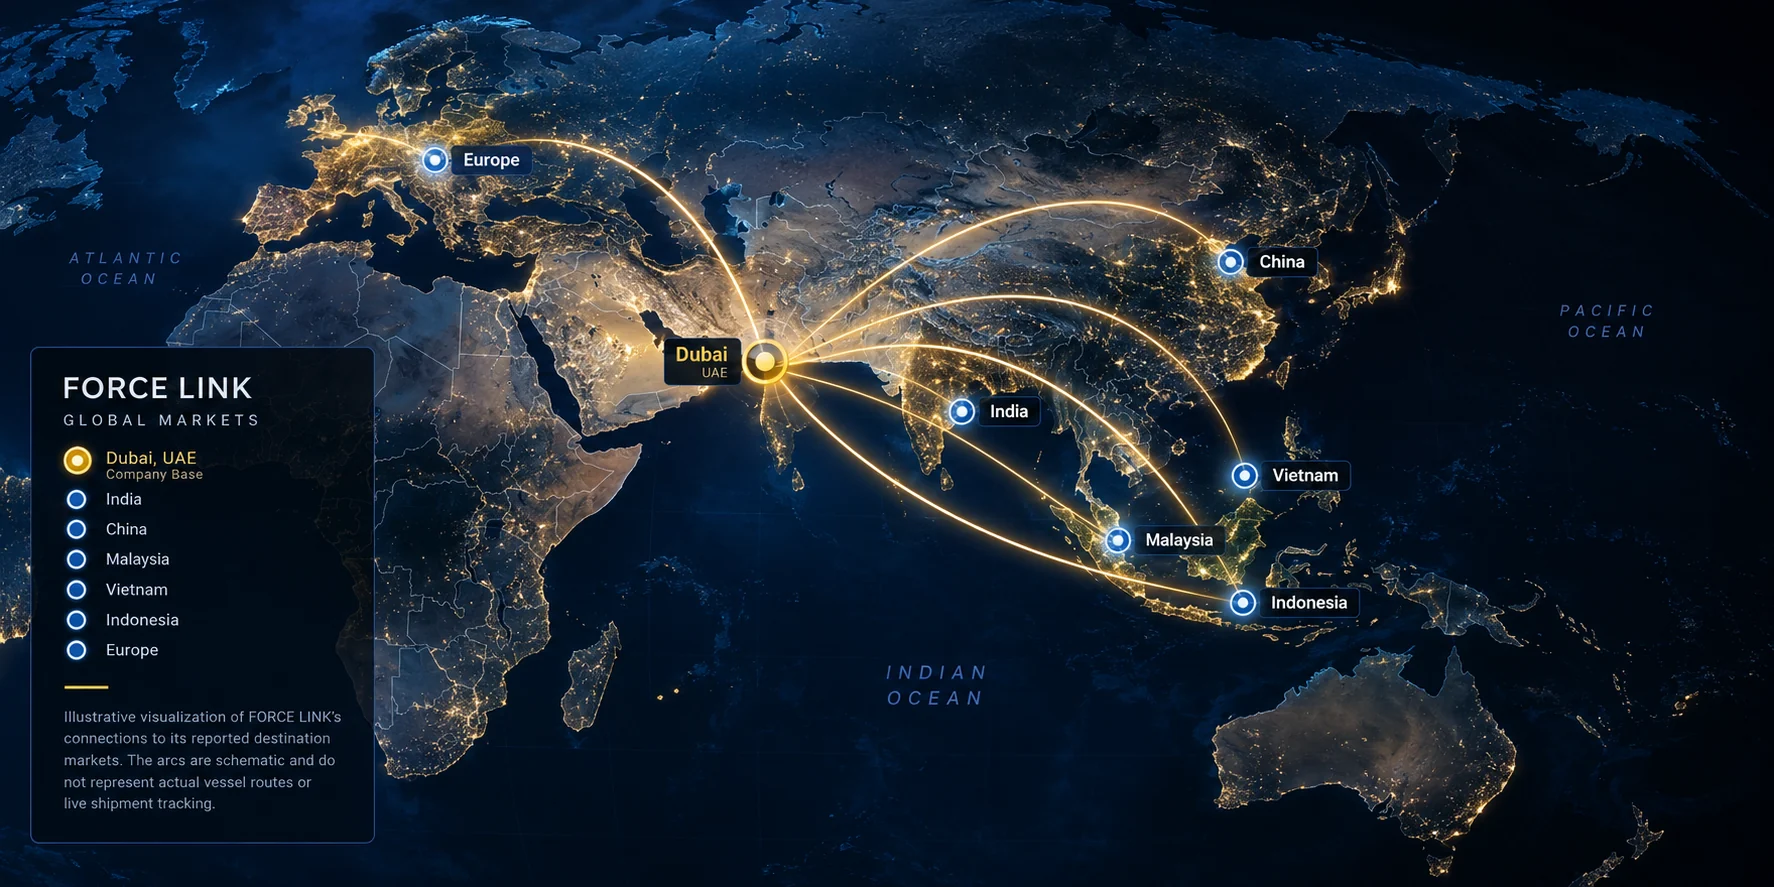
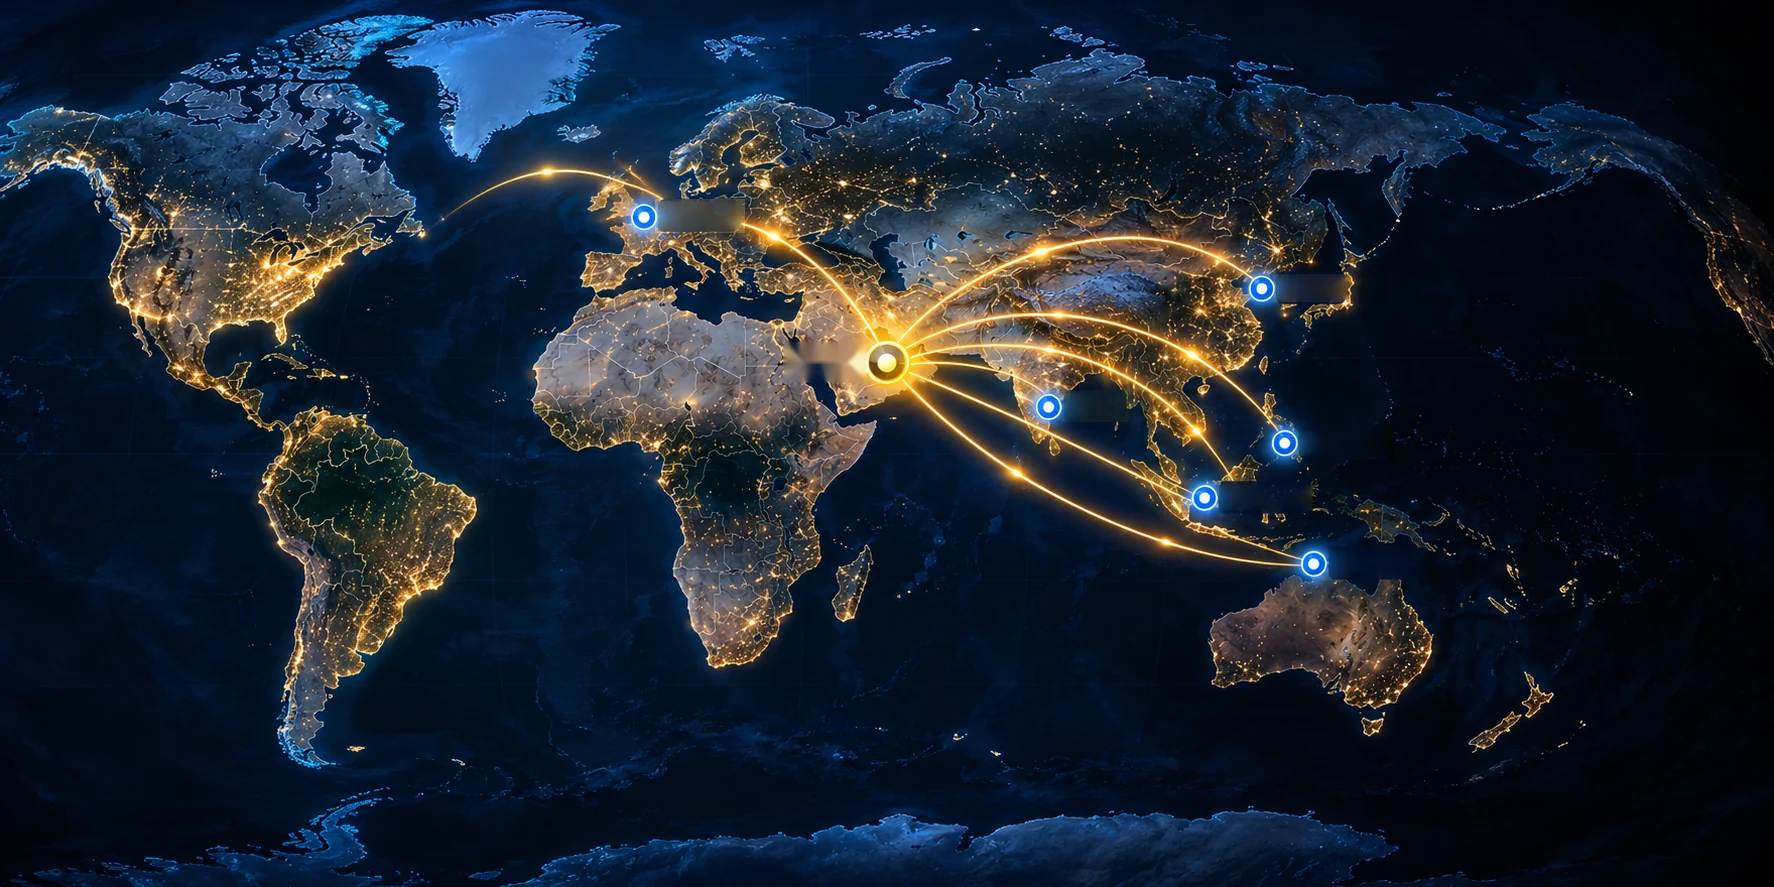
V1

diff --git a/site/index.html b/site/index.html
@@ -50,7 +50,7 @@
   </div>
 </header>
 <main id="main">
-<section class="hero">
+<div class="hero-pin"><section class="hero">
   <picture>
     <source media="(max-width: 760px)" srcset="./assets/img/headers/seeding-mobile.webp" type="image/webp">
     <img class="hero-img" src="./assets/img/headers/seeding.webp" alt="A hand sowing granules onto soil" width="1920" height="1080" fetchpriority="high">
@@ -59,34 +59,8 @@
     <p class="eyebrow">Dubai, United Arab Emirates · Established 2023</p>
     <h1>Connecting Global Fertilizer Markets</h1>
     <p class="lead">Connecting fertilizer products with international markets through a focused approach to global trading and commercial relationships.</p>
-    <div class="hero-actions">
-      <a class="btn btn--gold" href="products/">Explore Our Products</a>
-      <a class="btn btn--outline" href="contact/">Contact Our Team</a>
-    </div>
   </div>
-</section><section class="section" aria-labelledby="scale-heading">
-  <div class="container">
-    <div class="section-head">
-      <div>
-        <p class="eyebrow">Commercial scale</p>
-        <h2 id="scale-heading">Reported sales volumes</h2>
-      </div>
-      <p>Volumes as reported by the company, shown with their reporting periods.</p>
-    </div>
-  </div>
-  <div class="container metrics">
-    <div class="metric reveal">
-  <div class="metric-value"><span data-count="1.5" data-decimals="1">1.5</span><span class="unit">M MT</span></div>
-  <p class="metric-label">Metric tons sold in 2025</p>
-  <p class="metric-period">Calendar year 2025</p>
-</div>
-    <div class="metric reveal">
-  <div class="metric-value"><span data-count="1.7" data-decimals="1">1.7</span><span class="unit">M MT</span></div>
-  <p class="metric-label">Metric tons sold in 2026</p>
-  <p class="metric-period">January–September 2026 (year to date, not a full-year figure)</p>
-</div>
-  </div>
-</section><section class="section section--off" aria-labelledby="products-heading">
+</section></div><section class="section section--off" aria-labelledby="products-heading">
   <div class="container">
     <div class="section-head">
       <div>
@@ -166,11 +140,11 @@
   <div class="container split">
     <figure class="market-map" style="margin:0">
   <div class="market-map__frame">
-    <img src="./assets/img/markets-map.webp" alt="Night-time world map centred on Dubai, United Arab Emirates, with illustrative gold arcs to India, China, Malaysia, Vietnam, Indonesia and Europe (region)." width="1774" height="887">
+    <img src="./assets/img/markets-map.webp" alt="Night-time world map centred on Dubai, United Arab Emirates, with illustrative gold routes to markets in Europe, China, India, Vietnam, Malaysia and Indonesia." width="1774" height="887">
     <svg class="market-map__svg" viewBox="0 0 1774 887" aria-hidden="true" focusable="false">
-      <path class="mm-track" d="M765,362 Q600,141 435,160"/><path class="mm-track" d="M765,362 Q998,162 1230,262"/><path class="mm-track" d="M765,362 Q863,316 961,411"/><path class="mm-track" d="M765,362 Q1004,269 1244,476"/><path class="mm-track" d="M765,362 Q941,341 1117,540"/><path class="mm-track" d="M765,362 Q1004,502 1242,603"/>
-      <path class="mm-flow" d="M765,362 Q600,141 435,160" style="animation-delay:0.0s"/><path class="mm-flow" d="M765,362 Q998,162 1230,262" style="animation-delay:0.6s"/><path class="mm-flow" d="M765,362 Q863,316 961,411" style="animation-delay:1.2s"/><path class="mm-flow" d="M765,362 Q1004,269 1244,476" style="animation-delay:1.8s"/><path class="mm-flow" d="M765,362 Q941,341 1117,540" style="animation-delay:2.4s"/><path class="mm-flow" d="M765,362 Q1004,502 1242,603" style="animation-delay:3.0s"/>
-      <circle class="mm-pulse" cx="435" cy="160" r="8" style="animation-delay:0.0s"/><circle class="mm-pulse" cx="1230" cy="262" r="8" style="animation-delay:0.6s"/><circle class="mm-pulse" cx="961" cy="411" r="8" style="animation-delay:1.2s"/><circle class="mm-pulse" cx="1244" cy="476" r="8" style="animation-delay:1.8s"/><circle class="mm-pulse" cx="1117" cy="540" r="8" style="animation-delay:2.4s"/><circle class="mm-pulse" cx="1242" cy="603" r="8" style="animation-delay:3.0s"/><circle class="mm-pulse mm-pulse--base" cx="765" cy="362" r="8" style="animation-delay:0s"/>
+      <path class="mm-track" d="M886,362 Q765,170 644,217"/><path class="mm-track" d="M886,362 Q1074,175 1261,288"/><path class="mm-track" d="M886,362 Q967,314 1048,407"/><path class="mm-track" d="M886,362 Q1085,272 1284,443"/><path class="mm-track" d="M886,362 Q1045,340 1204,498"/><path class="mm-track" d="M886,362 Q1100,534 1314,566"/>
+      <path class="mm-flow" d="M886,362 Q765,170 644,217" style="animation-delay:0.0s"/><path class="mm-flow" d="M886,362 Q1074,175 1261,288" style="animation-delay:0.6s"/><path class="mm-flow" d="M886,362 Q967,314 1048,407" style="animation-delay:1.2s"/><path class="mm-flow" d="M886,362 Q1085,272 1284,443" style="animation-delay:1.8s"/><path class="mm-flow" d="M886,362 Q1045,340 1204,498" style="animation-delay:2.4s"/><path class="mm-flow" d="M886,362 Q1100,534 1314,566" style="animation-delay:3.0s"/>
+      <circle class="mm-pulse" cx="644" cy="217" r="8" style="animation-delay:0.0s"/><circle class="mm-pulse" cx="1261" cy="288" r="8" style="animation-delay:0.6s"/><circle class="mm-pulse" cx="1048" cy="407" r="8" style="animation-delay:1.2s"/><circle class="mm-pulse" cx="1284" cy="443" r="8" style="animation-delay:1.8s"/><circle class="mm-pulse" cx="1204" cy="498" r="8" style="animation-delay:2.4s"/><circle class="mm-pulse" cx="1314" cy="566" r="8" style="animation-delay:3.0s"/><circle class="mm-pulse mm-pulse--base" cx="886" cy="362" r="8" style="animation-delay:0s"/>
     </svg>
   </div>
   <figcaption class="note market-map__caption">An illustrative visualization of FORCE LINK’s connections to its reported destination markets. The arcs are schematic and do not represent actual vessel routes or live shipment tracking.</figcaption>

diff --git a/site/markets/index.html b/site/markets/index.html
@@ -64,10 +64,18 @@
 </section>
 <section class="section" style="padding-bottom:40px">
   <div class="container">
-    <figure class="figure" style="margin:0">
-      <img src="../assets/img/map.webp" alt="World map with highlighted markers across Asia and Europe" width="1920" height="1080">
-      <figcaption>Illustrative map. Markers indicate the company's reported destination markets. They do not show shipment routes, volumes or customer locations.</figcaption>
-    </figure>
+<figure class="market-map" style="margin:0">
+  <div class="market-map__frame">
+    <img src="../assets/img/markets-map.webp" alt="Night-time world map centred on Dubai, United Arab Emirates, with illustrative gold routes to markets in Europe, China, India, Vietnam, Malaysia and Indonesia." width="1774" height="887">
+    <svg class="market-map__svg" viewBox="0 0 1774 887" aria-hidden="true" focusable="false">
+      <path class="mm-track" d="M886,362 Q765,170 644,217"/><path class="mm-track" d="M886,362 Q1074,175 1261,288"/><path class="mm-track" d="M886,362 Q967,314 1048,407"/><path class="mm-track" d="M886,362 Q1085,272 1284,443"/><path class="mm-track" d="M886,362 Q1045,340 1204,498"/><path class="mm-track" d="M886,362 Q1100,534 1314,566"/>
+      <path class="mm-flow" d="M886,362 Q765,170 644,217" style="animation-delay:0.0s"/><path class="mm-flow" d="M886,362 Q1074,175 1261,288" style="animation-delay:0.6s"/><path class="mm-flow" d="M886,362 Q967,314 1048,407" style="animation-delay:1.2s"/><path class="mm-flow" d="M886,362 Q1085,272 1284,443" style="animation-delay:1.8s"/><path class="mm-flow" d="M886,362 Q1045,340 1204,498" style="animation-delay:2.4s"/><path class="mm-flow" d="M886,362 Q1100,534 1314,566" style="animation-delay:3.0s"/>
+      <circle class="mm-pulse" cx="644" cy="217" r="8" style="animation-delay:0.0s"/><circle class="mm-pulse" cx="1261" cy="288" r="8" style="animation-delay:0.6s"/><circle class="mm-pulse" cx="1048" cy="407" r="8" style="animation-delay:1.2s"/><circle class="mm-pulse" cx="1284" cy="443" r="8" style="animation-delay:1.8s"/><circle class="mm-pulse" cx="1204" cy="498" r="8" style="animation-delay:2.4s"/><circle class="mm-pulse" cx="1314" cy="566" r="8" style="animation-delay:3.0s"/><circle class="mm-pulse mm-pulse--base" cx="886" cy="362" r="8" style="animation-delay:0s"/>
+    </svg>
+  </div>
+  <figcaption class="note market-map__caption">An illustrative visualization of FORCE LINK’s connections to its reported destination markets. The arcs are schematic and do not represent actual vessel routes or live shipment tracking.</figcaption>
+</figure>
+
   </div>
 </section><section class="section" aria-labelledby="reported-markets">
   <div class="container">

diff --git a/site/assets/css/site.css b/site/assets/css/site.css
@@ -23,7 +23,7 @@ img{display:block;max-width:100%;height:auto}
 a{color:var(--blue)}
 p{margin:0 0 1em}
 ul,ol{margin:0;padding:0}
-main{display:block;overflow-x:hidden}
+main{display:block;overflow-x:hidden;overflow-x:clip}
 .grid>*{min-width:0}
 
 h1,h2,h3{color:var(--navy);line-height:1.15;margin:0 0 .5em;letter-spacing:-.015em}
@@ -350,10 +350,14 @@ h3{font-size:1.2rem;font-weight:600}
 
 .market-map__caption{font-size:.85rem;line-height:1.5}
 
-/* Home hero, phones with JS: the photo stays alone at first. On scroll, a navy screen rises over it
-   and carries the header text (--p runs 0 to 1). */
+/* Home hero, phones with JS: the hero is pinned for the first part of the scroll. The photo stays
+   alone, then the navy header card wipes down from the top edge over it (--p runs 0 to 1, eased). */
 @media (max-width:760px){
+  .hero-pin--on{height:190vh;height:190svh}
+  .js-scroll-hero picture{background:linear-gradient(180deg,#f1ece4 0%,#d9cfc1 100%)}
+  .js-scroll-hero picture img{mix-blend-mode:multiply}
+  .hero-pin--on .hero{position:sticky;top:0}
   .hero.js-scroll-hero{min-height:100vh;min-height:100svh;background:var(--navy)}
-  .js-scroll-hero .hero-content{position:absolute;inset:0;z-index:2;width:100%;max-width:none;margin:0;padding:24px 20px;display:flex;flex-direction:column;justify-content:center;background:var(--navy);border-radius:0;box-shadow:none;transform:translateY(calc((1 - var(--p,0)) * 100%));will-change:transform}
-  .js-scroll-hero .hero-content > *{max-width:440px;margin-left:auto;margin-right:auto}
+  .js-scroll-hero .hero-content{position:absolute;inset:0;z-index:2;width:100%;max-width:none;margin:0;padding:24px 20px;display:flex;flex-direction:column;justify-content:center;background:var(--navy);border-radius:0;box-shadow:none;clip-path:inset(0 0 calc((1 - var(--p,0)) * 100%) 0)}
+  .js-scroll-hero .hero-content > *{max-width:440px;margin-left:auto;margin-right:auto;opacity:clamp(0,calc((var(--p,0) - .6) * 2.5),1)}
 }

diff --git a/static/assets/css/site.css b/static/assets/css/site.css
@@ -23,7 +23,7 @@ img{display:block;max-width:100%;height:auto}
 a{color:var(--blue)}
 p{margin:0 0 1em}
 ul,ol{margin:0;padding:0}
-main{display:block;overflow-x:hidden}
+main{display:block;overflow-x:hidden;overflow-x:clip}
 .grid>*{min-width:0}
 
 h1,h2,h3{color:var(--navy);line-height:1.15;margin:0 0 .5em;letter-spacing:-.015em}
@@ -350,10 +350,14 @@ h3{font-size:1.2rem;font-weight:600}
 
 .market-map__caption{font-size:.85rem;line-height:1.5}
 
-/* Home hero, phones with JS: the photo stays alone at first. On scroll, a navy screen rises over it
-   and carries the header text (--p runs 0 to 1). */
+/* Home hero, phones with JS: the hero is pinned for the first part of the scroll. The photo stays
+   alone, then the navy header card wipes down from the top edge over it (--p runs 0 to 1, eased). */
 @media (max-width:760px){
+  .hero-pin--on{height:190vh;height:190svh}
+  .js-scroll-hero picture{background:linear-gradient(180deg,#f1ece4 0%,#d9cfc1 100%)}
+  .js-scroll-hero picture img{mix-blend-mode:multiply}
+  .hero-pin--on .hero{position:sticky;top:0}
   .hero.js-scroll-hero{min-height:100vh;min-height:100svh;background:var(--navy)}
-  .js-scroll-hero .hero-content{position:absolute;inset:0;z-index:2;width:100%;max-width:none;margin:0;padding:24px 20px;display:flex;flex-direction:column;justify-content:center;background:var(--navy);border-radius:0;box-shadow:none;transform:translateY(calc((1 - var(--p,0)) * 100%));will-change:transform}
-  .js-scroll-hero .hero-content > *{max-width:440px;margin-left:auto;margin-right:auto}
+  .js-scroll-hero .hero-content{position:absolute;inset:0;z-index:2;width:100%;max-width:none;margin:0;padding:24px 20px;display:flex;flex-direction:column;justify-content:center;background:var(--navy);border-radius:0;box-shadow:none;clip-path:inset(0 0 calc((1 - var(--p,0)) * 100%) 0)}
+  .js-scroll-hero .hero-content > *{max-width:440px;margin-left:auto;margin-right:auto;opacity:clamp(0,calc((var(--p,0) - .6) * 2.5),1)}
 }

diff --git a/site/assets/js/main.js b/site/assets/js/main.js
@@ -216,12 +216,14 @@
     var hero = doc.querySelector('.hero');
     var mq = window.matchMedia('(max-width: 760px)');
     if (!hero || reduceMotion || !hero.querySelector('picture')) return;
+    var pin = hero.parentNode;
     var ticking = false;
     function update() {
       ticking = false;
-      var p = window.scrollY / (window.innerHeight * 0.3);
+      var p = window.scrollY / (window.innerHeight * 0.9);
       p = Math.max(0, Math.min(1, p));
-      hero.style.setProperty('--p', p.toFixed(3));
+      var e = p * p * (3 - 2 * p); // ease in and out so the screen settles softly
+      hero.style.setProperty('--p', e.toFixed(3));
     }
     function onScroll() {
       if (!ticking) { ticking = true; window.requestAnimationFrame(update); }
@@ -229,10 +231,12 @@
     function apply() {
       if (mq.matches) {
         hero.classList.add('js-scroll-hero');
+        if (pin && pin.classList.contains('hero-pin')) pin.classList.add('hero-pin--on');
         update();
         window.addEventListener('scroll', onScroll, { passive: true });
       } else {
         hero.classList.remove('js-scroll-hero');
+        if (pin && pin.classList.contains('hero-pin')) pin.classList.remove('hero-pin--on');
         hero.style.removeProperty('--p');
         window.removeEventListener('scroll', onScroll);
       }

diff --git a/static/assets/js/main.js b/static/assets/js/main.js
@@ -216,12 +216,14 @@
     var hero = doc.querySelector('.hero');
     var mq = window.matchMedia('(max-width: 760px)');
     if (!hero || reduceMotion || !hero.querySelector('picture')) return;
+    var pin = hero.parentNode;
     var ticking = false;
     function update() {
       ticking = false;
-      var p = window.scrollY / (window.innerHeight * 0.3);
+      var p = window.scrollY / (window.innerHeight * 0.9);
       p = Math.max(0, Math.min(1, p));
-      hero.style.setProperty('--p', p.toFixed(3));
+      var e = p * p * (3 - 2 * p); // ease in and out so the screen settles softly
+      hero.style.setProperty('--p', e.toFixed(3));
     }
     function onScroll() {
       if (!ticking) { ticking = true; window.requestAnimationFrame(update); }
@@ -229,10 +231,12 @@
     function apply() {
       if (mq.matches) {
         hero.classList.add('js-scroll-hero');
+        if (pin && pin.classList.contains('hero-pin')) pin.classList.add('hero-pin--on');
         update();
         window.addEventListener('scroll', onScroll, { passive: true });
       } else {
         hero.classList.remove('js-scroll-hero');
+        if (pin && pin.classList.contains('hero-pin')) pin.classList.remove('hero-pin--on');
         hero.style.removeProperty('--p');
         window.removeEventListener('scroll', onScroll);
       }

diff --git a/build/build_site.py b/build/build_site.py
@@ -501,16 +501,16 @@ def metric_block(key, root_count=True):
 
 
 
-# Markets map (supplied illustration). Marker centres measured in source pixels (1774 x 887).
+# Markets map (supplied illustration, place names removed). Marker centres measured in source pixels (1774 x 887).
 MM_W, MM_H = 1774, 887
-MM_BASE = (765, 362)  # Dubai
+MM_BASE = (886, 362)  # Dubai
 MM_ROUTES = [  # name, x, y, arc lift (pixels above the chord; negative = below), pulse delay (s)
-    ("Europe (region)", 435, 160, 120, 0.0),
-    ("China", 1230, 262, 150, 0.6),
-    ("India", 961, 411, 70, 1.2),
-    ("Vietnam", 1244, 476, 150, 1.8),
-    ("Malaysia", 1117, 540, 110, 2.4),
-    ("Indonesia", 1242, 603, -20, 3.0),
+    ("Europe", 644, 217, 120, 0.0),
+    ("China", 1261, 288, 150, 0.6),
+    ("India", 1048, 407, 70, 1.2),
+    ("Vietnam", 1284, 443, 130, 1.8),
+    ("Malaysia", 1204, 498, 90, 2.4),
+    ("Indonesia", 1314, 566, -70, 3.0),
 ]
 
 
@@ -527,7 +527,7 @@ def market_map_html(root):
     pulses.append(f'<circle class="mm-pulse mm-pulse--base" cx="{bx}" cy="{by}" r="8" style="animation-delay:0s"/>')
     return f"""<figure class="market-map" style="margin:0">
   <div class="market-map__frame">
-    <img src="{root}assets/img/markets-map.webp" alt="Night-time world map centred on Dubai, United Arab Emirates, with illustrative gold arcs to India, China, Malaysia, Vietnam, Indonesia and Europe (region)." width="{MM_W}" height="{MM_H}">
+    <img src="{root}assets/img/markets-map.webp" alt="Night-time world map centred on Dubai, United Arab Emirates, with illustrative gold routes to markets in Europe, China, India, Vietnam, Malaysia and Indonesia." width="{MM_W}" height="{MM_H}">
     <svg class="market-map__svg" viewBox="0 0 {MM_W} {MM_H}" aria-hidden="true" focusable="false">
       {''.join(tracks)}
       {''.join(flows)}
@@ -550,10 +550,6 @@ def home_page():
     <p class="eyebrow">Dubai, United Arab Emirates · Established {COMPANY['founded']}</p>
     <h1>{esc(COMPANY['tagline'])}</h1>
     <p class="lead">Connecting fertilizer products with international markets through a focused approach to global trading and commercial relationships.</p>
-    <div class="hero-actions">
-      <a class="btn btn--gold" href="products/">Explore Our Products</a>
-      <a class="btn btn--outline" href="contact/">Contact Our Team</a>
-    </div>
   </div>
 </section>"""
 
@@ -620,7 +616,7 @@ def home_page():
     band = cta_band(r, "Discuss Your Fertilizer Requirements",
                     "Contact our team to discuss your product requirements and potential trading opportunities.")
 
-    body = hero + scale + products + intro + markets + band
+    body = f"""<div class="hero-pin">{hero}</div>""" + products + intro + markets + band
     jsonld = [{
         "@context": "https://schema.org",
         "@type": "Organization",
@@ -879,10 +875,7 @@ def markets_page():
 
     map_block = f"""<section class="section" style="padding-bottom:40px">
   <div class="container">
-    <figure class="figure" style="margin:0">
-      <img src="{r}assets/img/map.webp" alt="World map with highlighted markers across Asia and Europe" width="1920" height="1080">
-      <figcaption>Illustrative map. Markers indicate the company's reported destination markets. They do not show shipment routes, volumes or customer locations.</figcaption>
-    </figure>
+{market_map_html(r)}
   </div>
 </section>"""
 
